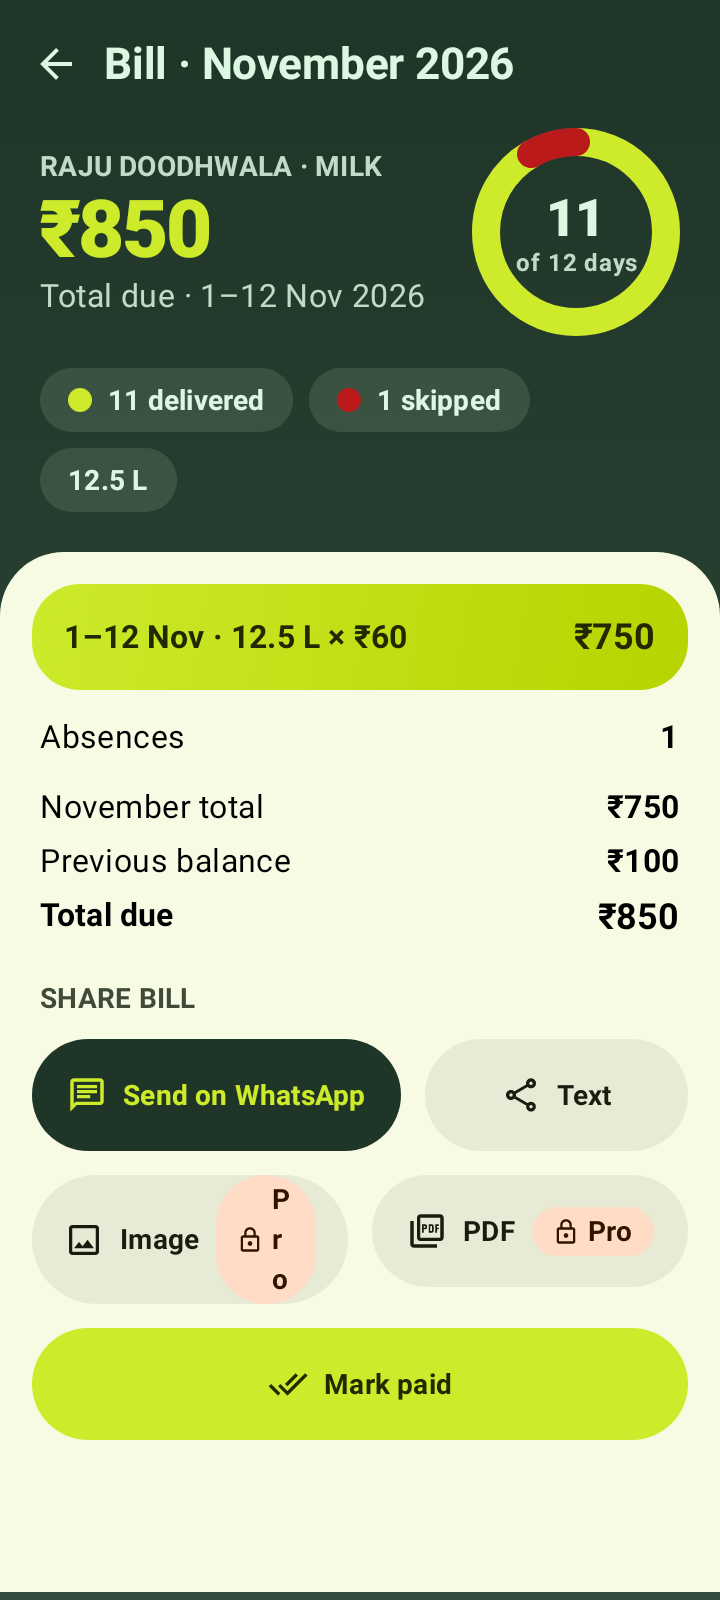
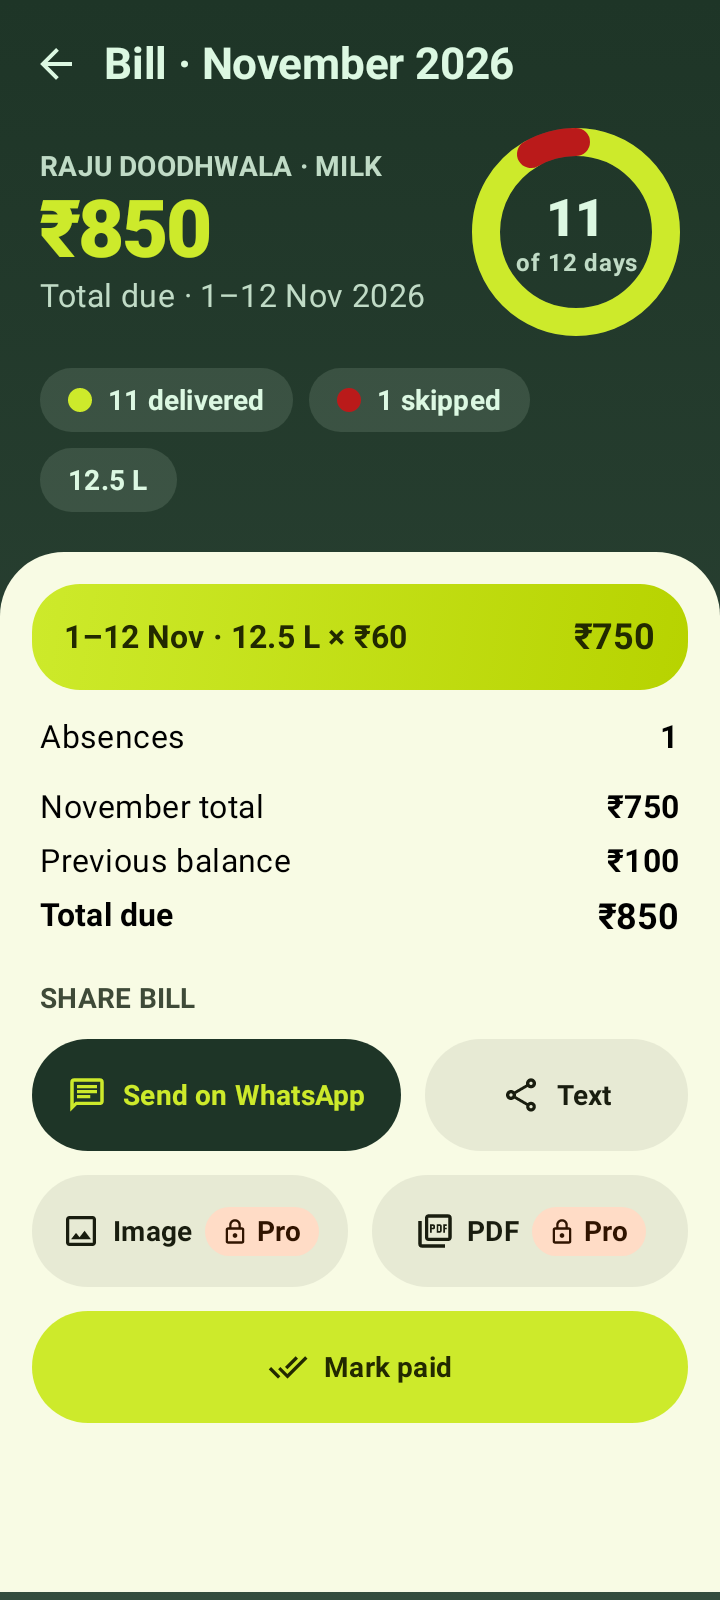
Fix Pro badge wrapping on share buttons; listing title

diff --git a/app/src/main/kotlin/com/postpole/gharkhata/ui/month/ProviderMonthScreen.kt b/app/src/main/kotlin/com/postpole/gharkhata/ui/month/ProviderMonthScreen.kt
@@ -577,15 +577,16 @@ internal fun BigButton(
 ) {
     Row(
         modifier.heightIn(min = 56.dp).clip(CircleShape).background(container)
-            .clickable(role = Role.Button, onClick = onClick).padding(horizontal = 16.dp),
+            .clickable(role = Role.Button, onClick = onClick).padding(horizontal = if (badge) 12.dp else 16.dp),
         verticalAlignment = Alignment.CenterVertically,
         horizontalArrangement = Arrangement.Center,
     ) {
         Icon(icon, contentDescription = null, tint = content, modifier = Modifier.size(20.dp))
-        Spacer(Modifier.width(8.dp))
-        Text(text, style = MaterialTheme.typography.labelLarge, color = content, maxLines = 1, overflow = TextOverflow.Ellipsis)
+        Spacer(Modifier.width(if (badge) 6.dp else 8.dp))
+        Text(text, style = MaterialTheme.typography.labelLarge, color = content, maxLines = 1, overflow = TextOverflow.Ellipsis,
+            modifier = Modifier.weight(1f, fill = false))
         if (badge) {
-            Spacer(Modifier.width(8.dp))
+            Spacer(Modifier.width(6.dp))
             ProBadge()
         }
     }

diff --git a/app/src/main/kotlin/com/postpole/gharkhata/ui/pro/ProBadge.kt b/app/src/main/kotlin/com/postpole/gharkhata/ui/pro/ProBadge.kt
@@ -37,11 +37,11 @@ fun rememberIsPro(viewModel: ProViewModel = hiltViewModel()): Boolean =
 fun ProBadge(modifier: Modifier = Modifier) {
     val gk = MaterialTheme.gharColors
     Row(
-        modifier.clip(CircleShape).background(gk.saffronContainer).padding(horizontal = 10.dp, vertical = 4.dp),
+        modifier.clip(CircleShape).background(gk.saffronContainer).padding(horizontal = 8.dp, vertical = 4.dp),
         verticalAlignment = Alignment.CenterVertically,
     ) {
         Icon(Icons.Outlined.Lock, contentDescription = null, tint = gk.onSaffronContainer, modifier = Modifier.size(14.dp))
         Spacer(Modifier.width(4.dp))
-        Text(stringResource(R.string.pro_badge), style = MaterialTheme.typography.labelLarge, color = gk.onSaffronContainer)
+        Text(stringResource(R.string.pro_badge), style = MaterialTheme.typography.labelLarge, color = gk.onSaffronContainer, maxLines = 1, softWrap = false)
     }
 }

diff --git a/docs/play-listing.md b/docs/play-listing.md
@@ -1,7 +1,7 @@
 # Play Store listing (draft)
 
 ## Title (29 chars)
-Ghar Khata: Milk & Maid Diary
+Ghar Khata - Milk & Maid Bill
 
 ## Short description (69 chars)
 Mark milk, maid & newspaper days. Auto monthly bill. Offline, no ads.
